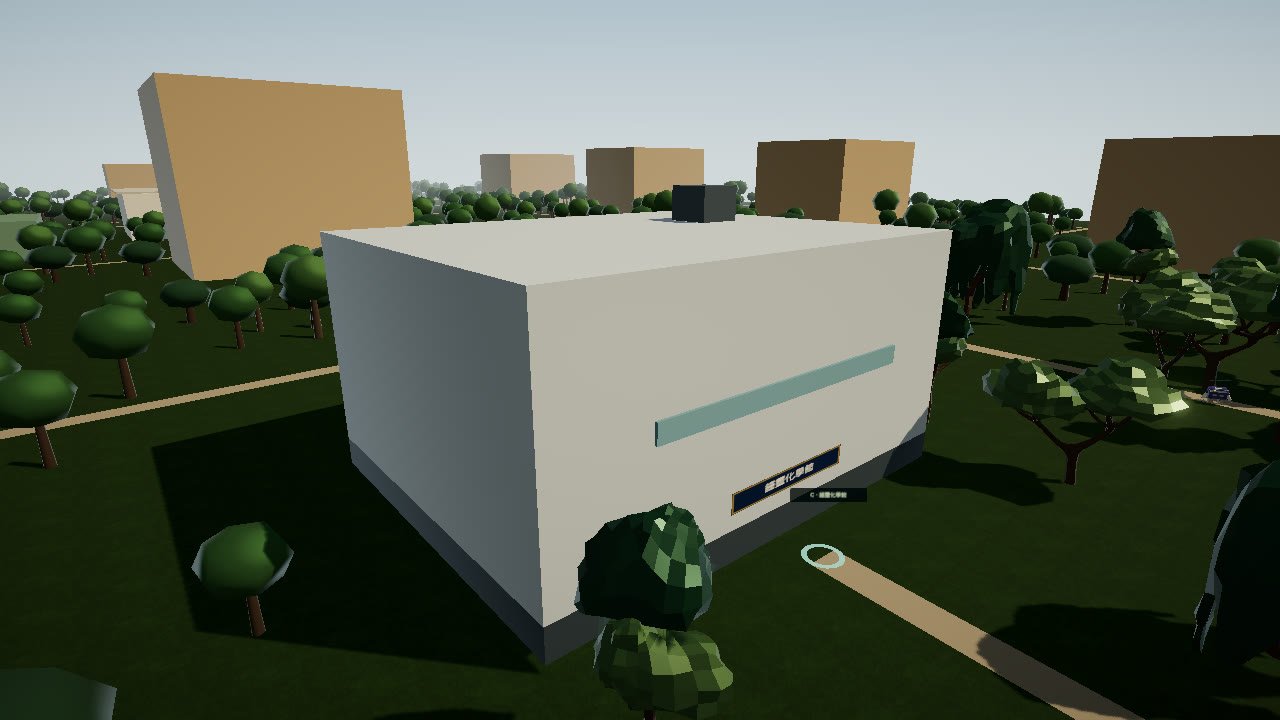
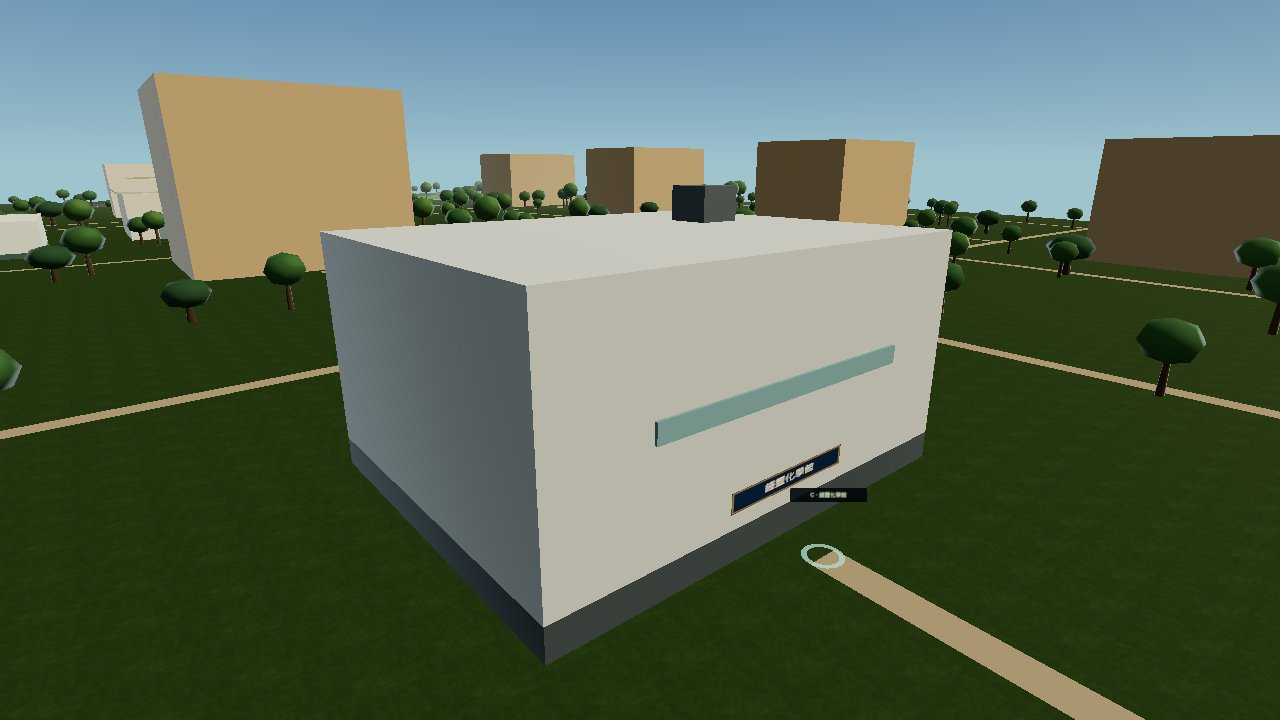
Record the chemistry hall integration check.
The Zhongling hall keeps a south glass band and a roof stack. This host's daytime shot replaces the source capture.

diff --git a/docs/integration/HANDOFF.md b/docs/integration/HANDOFF.md
@@ -4,17 +4,18 @@
 
 ## 現在
 
-- 這次只量肩、肘、膝。17 個時間點，膝最多 94 度，肘最多 97 度，肩最多前舉 166 度。接到 `origin/main` `c192152`。遊戲程式仍是 `9c803bb`。
-- 沒有改角色網格，也沒有新的測繪。膝往後折、肘往反方向折、肩再多舉，測試會失敗。
-- `build:site` 的 `AdventureApp-BEQkjSOj.js` 與學期那一版相同。遊戲程式沒變，沒有重跑跨系統路線。
+- 這次把鍾靈化學館從實驗樓方塊分開。深色基座、淺色館身、南向玻璃、屋頂排氣箱。接到 `origin/main` `468a516`。遊戲程式是 `927f2b6`。
+- 名牌寫著鍾靈化學館。科學館仍是東側直玻璃，工學館仍是磚紅基座，工學大樓仍是退縮塔樓。排氣箱外形仍是 estimated。
+- 1280×720 看得到南向玻璃和屋頂排氣箱。390×780 同一棟仍看得到這兩樣。
+- 跨系統路線在 `http://127.0.0.1:8138/` 通過：大門經驗 20、筆記 19；補給後經驗 44、筆記 21、學期期中；突襲小考 65→45；第二客戶端看到期中；`revision_conflict`；斷線佇列 `cloudXp` 47；登出 401。`pageErrors` 空。第一次路線在戰鬥之後被瀏覽器關閉錯誤打斷，同一站重跑通過。
 
-## 本輪已驗證（肩肘膝）
+## 本輪已驗證（化學館）
 
-`node --test --test-name-pattern "shoulders, elbows and knees" scripts/art-pipeline.test.mjs` 通過。`npm test` 271 通過。這台量到膝 94 度、肘 97 度、肩前舉 166 度。
+`node --test scripts/context-lod.test.mjs scripts/campus-links.test.mjs` 通過。`npm test` 271 通過。`node --experimental-transform-types scripts/integration-route.mjs` 走 `http://127.0.0.1:8138/`。幀時間是 SwiftShader。
 
 ## 下一步
 
-先 `git fetch`。關節範圍已在 `main`。遊戲程式仍是 `9c803bb`，沒有再變就不要重跑跨系統路線，也不要為了對齊 SHA 再寫一筆。PR #32 的 `1fc5887` 仍不合併。整合 PR 是 #126。來源 `6ac2cf3` 不是祖先，不要單獨合併 PR #108。PR #122、#107、#105、#102、#101、#99、#97、#96、#93、#91、#90、#88、#86、#85、#82、#80、#79、#77、#75、#73、#72、#70、#68、#67、#65、#63、#61、#59、#56、#54、#53、#51 的程式已經在更早的整合裡，也不要再單獨合併。下一項是化學館（PR #110，`eee5c91`），再來是會文館（PR #111，`412b130`）、司令臺台面（PR #113，`f2750c7`）、低畫質行人（PR #115，`9672ff3`）、美術傳輸預算（PR #116，`9a3d594`）、宮燈大道四個時段（PR #118，`266e4b7`）、宮燈鏡頭（PR #121，`3ce5f17`）、路燈燈頭（PR #124，`2b45515`）。先看它們有沒有更新，再各自整合，不要單獨合併。三角形仍用 `7507c59` 那次重測。
+先 `git fetch`。化學館這輪已驗證，整合 PR 待開，還沒進 `main`。遊戲程式是 `927f2b6`。PR #32 的 `1fc5887` 仍不合併。來源 `eee5c91` 不是祖先，不要單獨合併 PR #110。PR #108、#122、#107、#105、#102、#101、#99、#97、#96、#93、#91、#90、#88、#86、#85、#82、#80、#79、#77、#75、#73、#72、#70、#68、#67、#65、#63、#61、#59、#56、#54、#53、#51 的程式已經在更早的整合裡，也不要再單獨合併。下一項是會文館（PR #111，`412b130`），再來是司令臺台面（PR #113，`f2750c7`）、低畫質行人（PR #115，`9672ff3`）、美術傳輸預算（PR #116，`9a3d594`）、宮燈大道四個時段（PR #118，`266e4b7`）、宮燈鏡頭（PR #121，`3ce5f17`）、路燈燈頭（PR #124，`2b45515`）。先看它們有沒有更新，再各自整合，不要單獨合併。三角形仍用 `7507c59` 那次重測。
 
 INT-01 維持不動。不要新增學期選擇，也不要做第二套獎勵帳。
 

diff --git a/docs/integration/STATUS.md b/docs/integration/STATUS.md
@@ -1,13 +1,13 @@
 # 整合狀態
 
-更新：2026-11-12。每個動作片段的肩、肘、膝留在量到的範圍：膝 94 度、肘 97 度、肩前舉 166 度。遊戲程式仍是學期那一版。幀時間仍是 SwiftShader。
+更新：2026-11-12。鍾靈化學館是深色基座、淺色館身、南向玻璃和屋頂排氣箱。名牌寫著鍾靈化學館。幀時間仍是 SwiftShader。
 本文件只記實際程式、PR 與本輪驗收。不把 M1 或 M2 當成整款遊戲完成，也不以 PR 或文件數量估算完成率。
 
 ## 三條線
 
 | 線 | 目前成果 | 開放 PR | 狀態 |
 | --- | --- | --- | --- |
-| 美術與場景 | 肩、肘、膝留在量到的範圍：膝 94 度、肘 97 度、肩前舉 166 度。 | 來源 PR #108 `6ac2cf3`。整合 PR #126 | `merged` |
+| 美術與場景 | 鍾靈化學館是深色基座、淺色館身、南向玻璃和屋頂排氣箱。 | 來源 PR #110 `eee5c91`。整合 PR 待開 | `verified` |
 | 後端 | 可選 RPG 雲端存檔已在 `main`。未登入只寫本機。第一次上傳要明示。衝突回 `revision_conflict`，由玩家選保留雲端或本機。靜態產物不含這套 API。 | [#9](https://github.com/aa0968111723-prog/forge-bloom-quiet-falcon/pull/9) 與 [#13](https://github.com/aa0968111723-prog/forge-bloom-quiet-falcon/pull/13) 已合併 | `merged` |
 | 內容 | 學期跟既有 `claimed` 走。補給委託付經驗 12、筆記 2，只進既有背包，而且只記一次。 | 來源 PR #122 `9c45f10`。整合 PR #125 | `merged` |
 
@@ -15,15 +15,15 @@
 
 ## 本輪範圍
 
-每個動作片段取 17 個時間點，讀肩、肘、膝的本地旋轉。膝最多彎 94 度，肘最多彎 97 度，肩最多前舉 166 度。膝往後折、肘往反方向折、肩再多舉，測試會失敗。沒有改角色網格，也沒有改學期。靜態產物和學期那一版相同。
+鍾靈化學館不再走共用實驗樓方塊。南向玻璃貼著牆，排氣箱留在屋頂範圍內。科學館仍是東側直玻璃，工學館仍是磚紅基座，工學大樓仍是退縮塔樓。外形仍是 estimated。學期仍由既有 `claimed` 推進。
 
 ## 路線
 
 | 項目 | 狀態 |
 | --- | --- |
-| 已製作 | 只加肩、肘、膝的彎曲測試。角色網格與學期沒有改 |
-| 已驗證 | `npm test` 271 通過。這台量到膝 94 度、肘 97 度、肩前舉 166 度。`build:site` 的 `AdventureApp-BEQkjSOj.js` 與學期那一版相同。遊戲程式沒變，沒有重跑跨系統路線 |
-| 已合併 | 是。遊戲程式仍是 `9c803bb`。整合 PR #126。`main` 未受保護、沒有必須的 check |
+| 已製作 | 鍾靈化學館改成 `chem-hall`。排氣箱留在屋頂上 |
+| 已驗證 | 靜態頁 `http://127.0.0.1:8138/`。1280×720 名牌寫著鍾靈化學館，屋頂看得到排氣箱。390×780 同一棟仍看得到玻璃和排氣箱。`npm test` 271 通過。跨系統路線在同一站 |
+| 已合併 | 否。遊戲程式 `927f2b6`。整合 PR 待開。`main` 未受保護、沒有必須的 check |
 | 已部署 | 否 |
 
 ## 尚未完成的遊戲範圍
